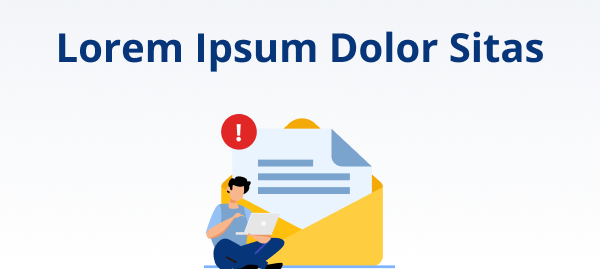
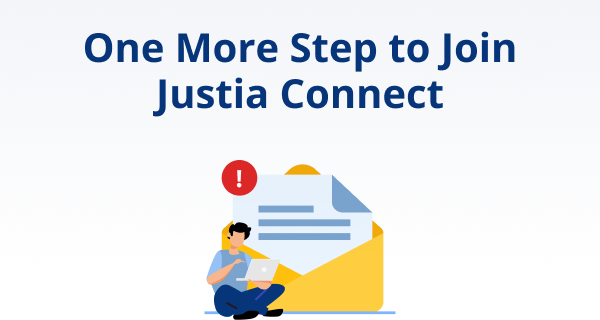
sing uo confirmation info and image update

Changed region(s): [[0.09, 0.0892, 0.93, 0.3866], [0.33, 0.4164, 0.66, 1.0]]

diff --git a/dist/connect-sign-up-confirmation.html b/dist/connect-sign-up-confirmation.html
@@ -145,11 +145,11 @@
           <table border="0" cellpadding="0" cellspacing="0" align="center" width="100%" style="max-width:600px;margin:0 auto;border-bottom:1px solid #efefef" bgcolor="#fff">
             <tr>
               <td style="padding:0" align="center">
-                <a href="#" target="_blank" style="color:#00b3e3;text-decoration:none"><img src="https://justatic.com/v/2/emails/images/newsletters/2023/11/connect-sign-up-confirmation-banner-2x.png" alt border="0" style="display:block;max-width:100%"/></a>
+                <a href="#" target="_blank" style="color:#00b3e3;text-decoration:none"><img src="https://justatic.com/v/1/emails/images/newsletters/2023/12/connect-sign-up-confirmation-banner-2x.png" alt border="0" style="display:block;max-width:100%"/></a>
               </td>
             </tr>
             <tr>
-              <td class="justia03 justia04 justia05" style="padding:50px 50px 0" align="left"><p style="margin:0;font:18px/1.5 Arial,sans-serif;text-align:left">Please confirm your request to sed quis ligula sit amet libero blandit consequat sit amet a velit consequat sit amet a velit as</p></td>
+              <td class="justia03 justia04 justia05" style="padding:50px 50px 0" align="left"><p style="margin:0;font:18px/1.5 Arial,sans-serif;text-align:left">You're almost finished joining the Justia Connect membership program! Please confirm your email address by clicking below to finalize your sign up for the program.</p></td>
             </tr>
             <tr>
               <td class="justia01" style="padding:50px" align="center">
@@ -176,7 +176,7 @@
                 <table border="0" cellpadding="0" cellspacing="0" align="center" width="100%" style="max-width:600px;margin:0 auto">
                   <tr>
                     <td class="justia06 justia07" width="40%" align="left" valign="middle">
-                      <a href="https://www.justia.com/marketing/?utm_medium=email&utm_campaign=2023-11&utm_source=directory-newsletter&utm_content=image-footer-logo-1" target="_blank" style="color:#00b3e3;text-decoration:none"><img src="https://justatic.com/v/20190705/shared/images/logos/justia-blue.png" alt="Justia" class="justia08" border="0" style="display:block;max-width:none" width="111" height="29"/></a>
+                      <a href="https://www.justia.com/marketing/?utm_medium=email&utm_campaign=2023-12&utm_source=directory-newsletter&utm_content=image-footer-logo-1" target="_blank" style="color:#00b3e3;text-decoration:none"><img src="https://justatic.com/v/20190705/shared/images/logos/justia-blue.png" alt="Justia" class="justia08" border="0" style="display:block;max-width:none" width="111" height="29"/></a>
                     </td>
                     <td class="justia06 justia08" width="60%" align="right" valign="middle">
                       <p style="margin:0;font:14px/1.45 Arial,sans-serif;color:#fff"><a class="justia06 justia09" href="https://www.justia.com/marketing/" target="_blank" style="text-decoration:none;color:#fff;font:14px/1.45 Arial,sans-serif;white-space:nowrap">Contact Us</a> <span class="justia02" style="margin:0 10px;color:#fff;font:14px/1.45 Arial,sans-serif">|</span> <a class="justia06 justia09" href="*|UNSUB|*" target="_blank" style="text-decoration:none;color:#fff;font:14px/1.45 Arial,sans-serif;white-space:nowrap">Unsubscribe</a> <span class="justia02" style="margin:0 10px;color:#fff;font:14px/1.45 Arial,sans-serif">|</span> <a class="justia06 justia09" href="https://www.justia.com/marketing/privacy-policy/" target="_blank" style="text-decoration:none;color:#fff;font:14px/1.45 Arial,sans-serif;white-space:nowrap">Privacy Policy</a></p>

diff --git a/dist/connect-pro-credit.html b/dist/connect-pro-credit.html
@@ -145,7 +145,7 @@
           <table border="0" cellpadding="0" cellspacing="0" align="center" width="100%" style="max-width:600px;margin:0 auto;border-bottom:1px solid #efefef" bgcolor="#fff">
             <tr>
               <td style="padding:0" align="center">
-                <a href="#" target="_blank" style="color:#00b3e3;text-decoration:none"><img src="https://justatic.com/v/2/emails/images/newsletters/2023/11/connect-pro-credit.gif" alt border="0" style="display:block;max-width:100%"/></a>
+                <a href="#" target="_blank" style="color:#00b3e3;text-decoration:none"><img src="https://justatic.com/v/1/emails/images/newsletters/2023/12/connect-pro-credit.gif" alt border="0" style="display:block;max-width:100%"/></a>
               </td>
             </tr>
             <tr>
@@ -194,7 +194,7 @@
                 <table border="0" cellpadding="0" cellspacing="0" align="center" width="100%" style="max-width:600px;margin:0 auto">
                   <tr>
                     <td class="justia06 justia07" width="40%" align="left" valign="middle">
-                      <a href="https://www.justia.com/marketing/?utm_medium=email&utm_campaign=2023-11&utm_source=directory-newsletter&utm_content=image-footer-logo-1" target="_blank" style="color:#00b3e3;text-decoration:none"><img src="https://justatic.com/v/20190705/shared/images/logos/justia-blue.png" alt="Justia" class="justia08" border="0" style="display:block;max-width:none" width="111" height="29"/></a>
+                      <a href="https://www.justia.com/marketing/?utm_medium=email&utm_campaign=2023-12&utm_source=directory-newsletter&utm_content=image-footer-logo-1" target="_blank" style="color:#00b3e3;text-decoration:none"><img src="https://justatic.com/v/20190705/shared/images/logos/justia-blue.png" alt="Justia" class="justia08" border="0" style="display:block;max-width:none" width="111" height="29"/></a>
                     </td>
                     <td class="justia06 justia08" width="60%" align="right" valign="middle">
                       <p style="margin:0;font:14px/1.45 Arial,sans-serif;color:#fff"><a class="justia06 justia09" href="https://www.justia.com/marketing/" target="_blank" style="text-decoration:none;color:#fff;font:14px/1.45 Arial,sans-serif;white-space:nowrap">Contact Us</a> <span class="justia02" style="margin:0 10px;color:#fff;font:14px/1.45 Arial,sans-serif">|</span> <a class="justia06 justia09" href="*|UNSUB|*" target="_blank" style="text-decoration:none;color:#fff;font:14px/1.45 Arial,sans-serif;white-space:nowrap">Unsubscribe</a> <span class="justia02" style="margin:0 10px;color:#fff;font:14px/1.45 Arial,sans-serif">|</span> <a class="justia06 justia09" href="https://www.justia.com/marketing/privacy-policy/" target="_blank" style="text-decoration:none;color:#fff;font:14px/1.45 Arial,sans-serif;white-space:nowrap">Privacy Policy</a></p>
